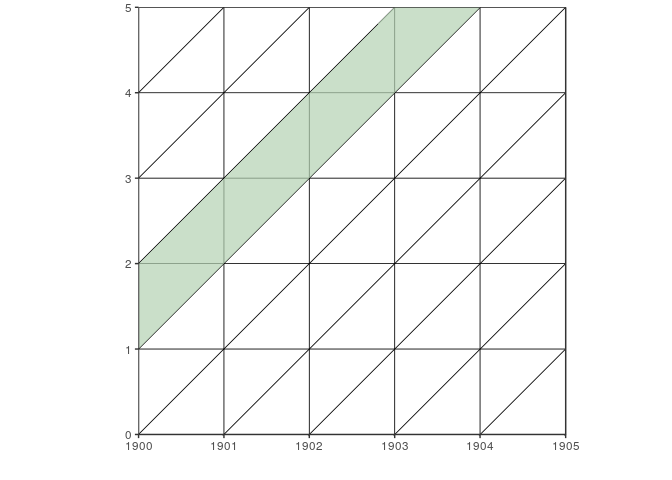
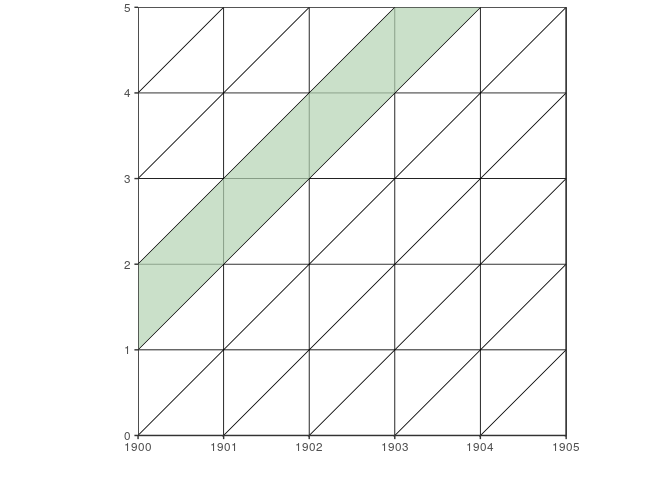
extended README

diff --git a/README.md b/README.md
@@ -111,19 +111,19 @@ The behaviour of `lexis_lifeline()` can be controlled by supplying an entry and/
 
 ``` r
 lg <- lexis_grid(year_start = 1900, year_end = 1905, age_start = 0, age_end = 5)
-lexis_lifeline(lg = lg, birth = "1901-09-23")
+lexis_lifeline(lg = lg, birth = "1901-09-23", lwd = 1.5)
 ```
 
 ![](README_files/figure-markdown_github/unnamed-chunk-9-1.png)
 
 ``` r
-lexis_lifeline(lg = lg, birth = "1901-09-23", entry = "1902-04-01")
+lexis_lifeline(lg = lg, birth = "1901-09-23", entry = "1902-04-01", lwd = 1.5)
 ```
 
 ![](README_files/figure-markdown_github/unnamed-chunk-9-2.png)
 
 ``` r
-lexis_lifeline(lg = lg, birth = "1901-09-23", entry = "1902-04-01", exit = "1904-10-31")
+lexis_lifeline(lg = lg, birth = "1901-09-23", entry = "1902-04-01", exit = "1904-10-31", lwd = 1.5)
 ```
 
 ![](README_files/figure-markdown_github/unnamed-chunk-9-3.png)
@@ -152,33 +152,79 @@ To add all this data to your Lexis Diagram, use `lexis.lifeline()` and provide t
 
 ``` r
 lg <- lexis_grid(year_start = 1900, year_end = 1905, age_start = 0, age_end = 5)
-lexis_lifeline(lg = lg, birth = lifelines_sample$entry, exit = lifelines_sample$exit, lineends = TRUE)
+lexis_lifeline(lg = lg, birth = lifelines_sample$entry, exit = lifelines_sample$exit, lwd = 1.5, lineends = TRUE)
 ```
 
 ![](README_files/figure-markdown_github/unnamed-chunk-11-1.png)
 
-### HMD
+#### Chaining `LexisPlotR` functions
+
+`LexisPlotR` functions can be chained using the pipe operator `%>%` which can be imported from `magrittr`, `dplyr` and other packages.
 
 ``` r
+library(magrittr)
+
+lexis_grid(year_start = 1990, year_end = 2000, age_start = 0, age_end = 10) %>%
+  lexis_age(age = 3) %>%
+  lexis_cohort(cohort = 1988) %>%
+  lexis_year(year = 1998) %>%
+  lexis_lifeline(birth = "1991-09-23", lwd = 1.5)
+```
+
+![](README_files/figure-markdown_github/unnamed-chunk-12-1.png)
+
+#### `LexisPlotR` is build on top of `ggplot2`
+
+`LexisPlotR` is actually just a collection of wrapper functions encapsulating `ggplot2` logic. Therefore, each plot returned by `LexisPlotR` is an object of class `ggplot` and can be altered using well known `ggplot2` functionalities.
+
+``` r
+library(magrittr)
+library(ggplot2)
+
+p <- lexis_grid(year_start = 1990, year_end = 2000, age_start = 0, age_end = 10) %>%
+  lexis_age(age = 3) %>%
+  lexis_cohort(cohort = 1988) %>%
+  lexis_year(year = 1998) %>%
+  lexis_lifeline(birth = "1991-09-23", lwd = 1.5)
+
+p <- p + labs(x = "Age", y = "Year", "title" = "LexisPlotR")
+p
+```
+
+![](README_files/figure-markdown_github/unnamed-chunk-13-1.png)
+
+#### Use public available data within LexisPlotR
+
+Projects like the [Human Mortality Database (HMD)](https://mortality.org) provide demographic data for many countries in the world.
+
+##### HMD
+
+HMD's Lexis Triangle data can be visualized using `LexisPlotR`'s `lexis_polygon()`. To fetch data from HMD, the [`HMDHFDplus`](https://github.com/timriffe/TR1/tree/master/TR1/HMDHFDplus) package can be used:
+
+``` r
+library(LexisPlotR)
 library(ggplot2)
 library(HMDHFDplus)
 
-triangles <- HMDHFDplus::readHMDweb("RUS", "Deaths_lexis", Sys.getenv("HMD_USER"), Sys.getenv("HMD_PASSWORD"))
+triangles <- HMDHFDplus::readHMDweb(CNTRY = "RUS", "Deaths_lexis", Sys.getenv("HMD_USER"), Sys.getenv("HMD_PASSWORD"))
 
 tidy_triangles <- tidy_triangle_data(triangles)
-```
 
-    ## Joining, by = "id"
-
-    ## Joining, by = c("id", "index")
-
-``` r
-lg <- lexis_grid(1960, 2000, 30, 80)
+lg <- lexis_grid(1960, 2000, 30, 80, delta = 5)
 
 lg + geom_polygon(data = tidy_triangles, aes(x = x, y = y, group = id, fill = Total))
 ```
 
-![](README_files/figure-markdown_github/unnamed-chunk-12-1.png)
+##### Other sources for demographic data
+
+Besides HMD, there are other similar or related projects that provide demographic data that could be used within LexisPlotR. An incomplete list:
+
+-   [Japanese Mortality Database](http://www.ipss.go.jp/p-toukei/JMD/index-en.asp)
+-   [Canadian Human Mortality Database](http://www.bdlc.umontreal.ca/CHMD/)
+-   [Human Fertility Database](https://www.humanfertility.org/cgi-bin/main.php)
+-   ...
+
+Until now, only HMD Lexis Triangles are supported natively by LexisPlotR.
 
 ### If you ...
 
